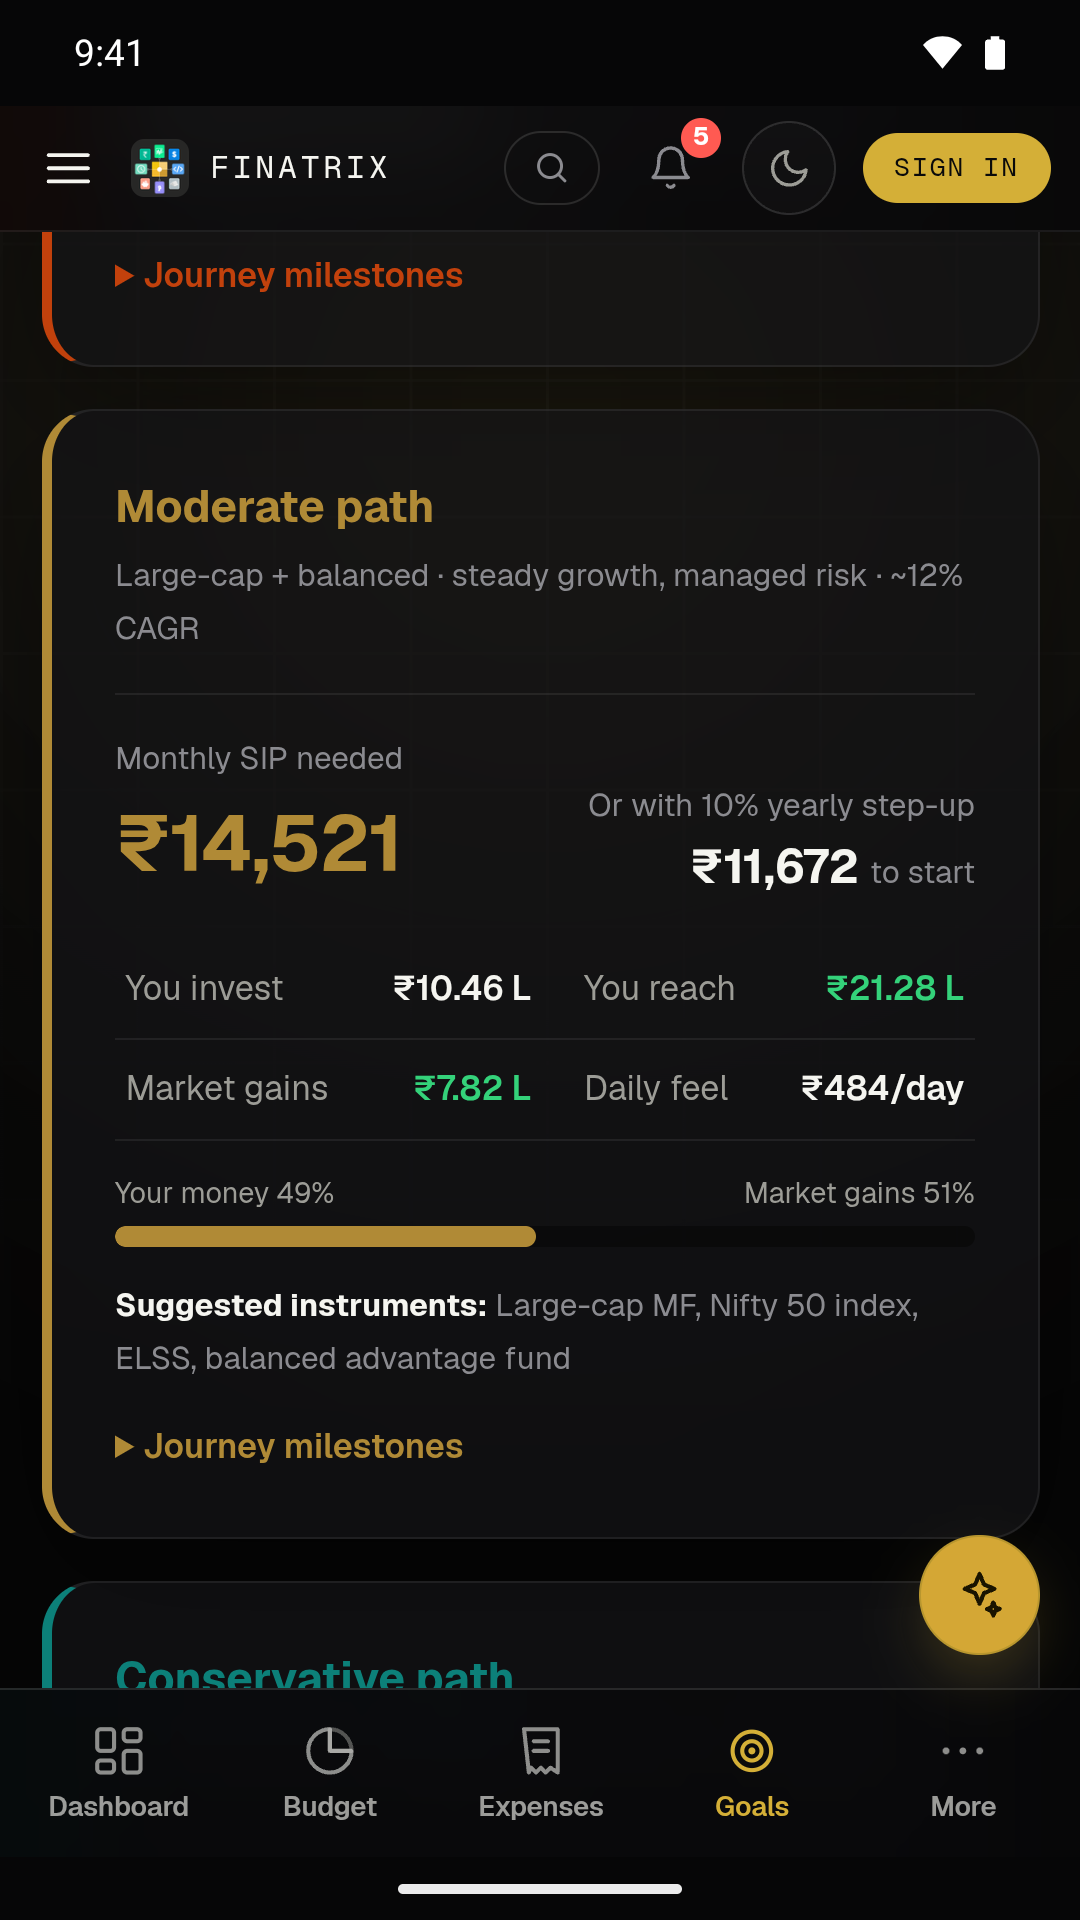
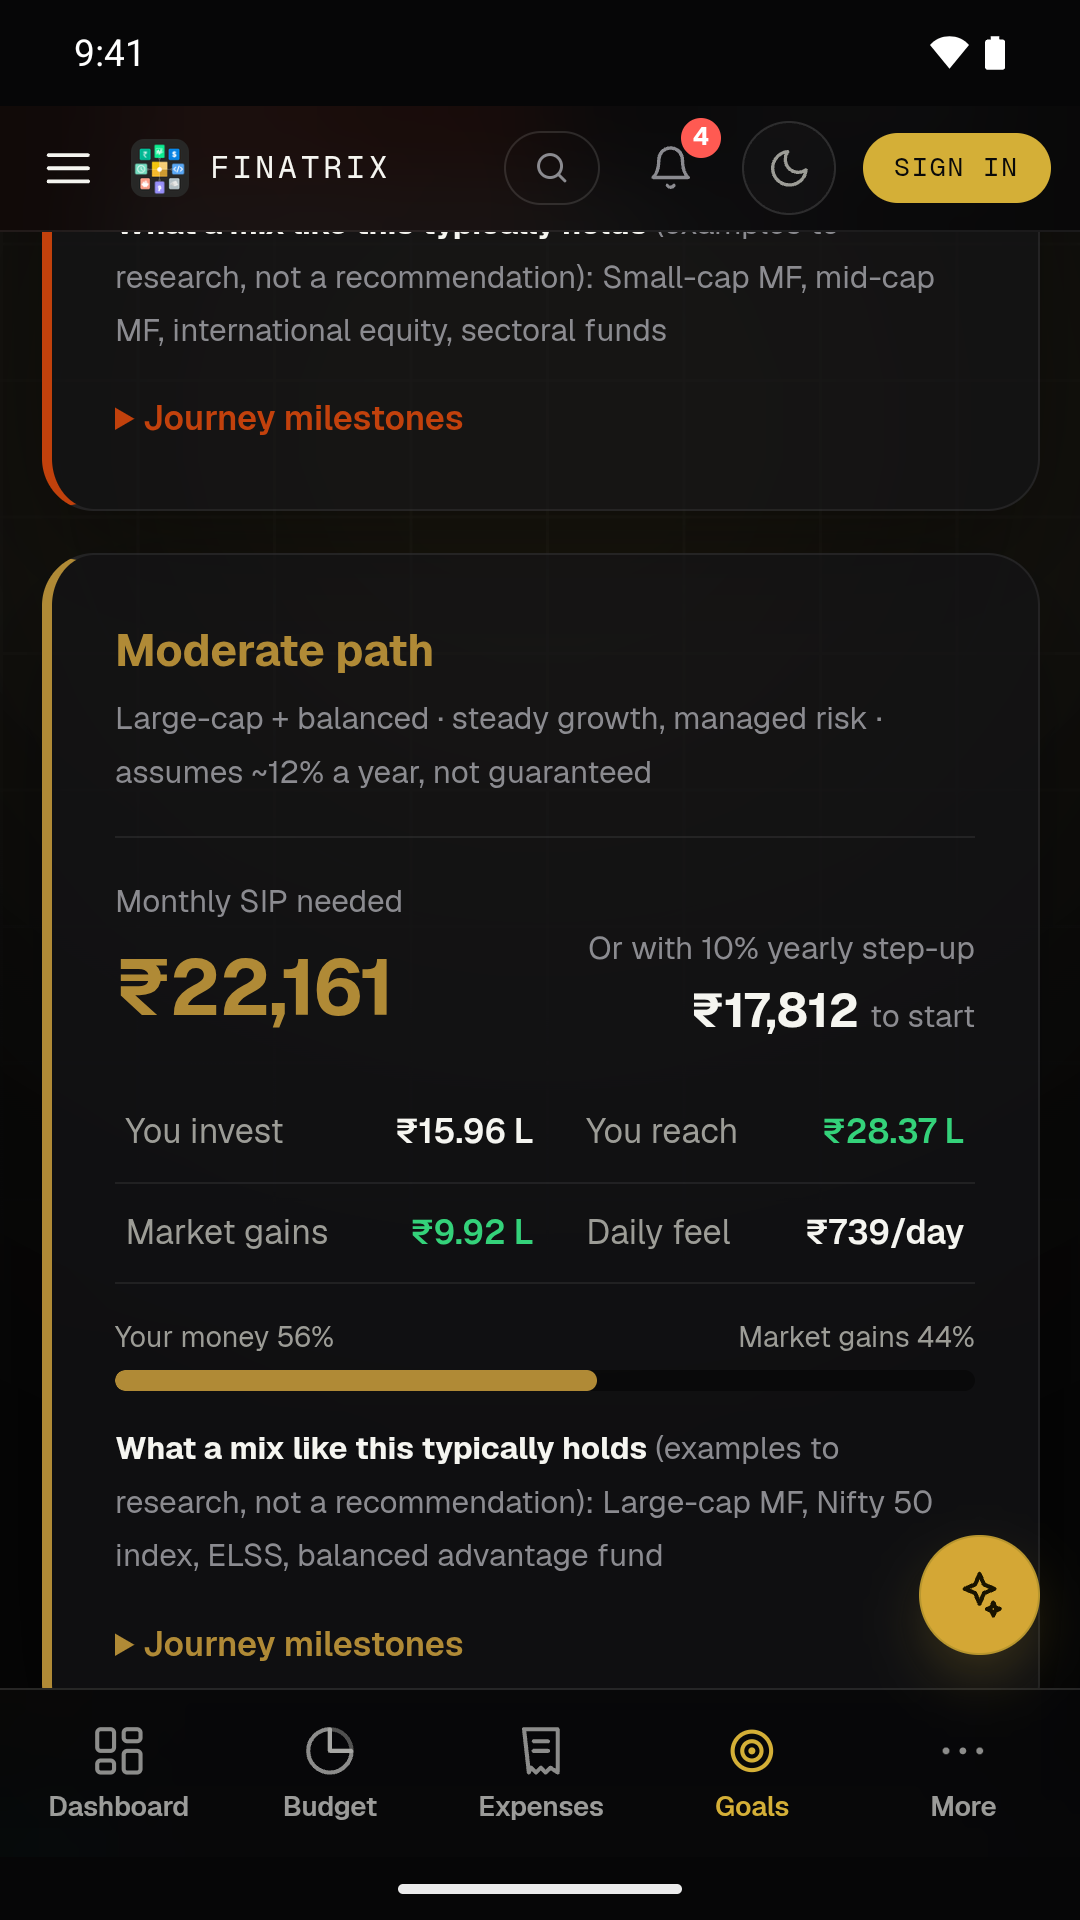
Recapture the Play Goal-plan screenshot with the current wording
The listing's fourth screenshot still showed "Suggested instruments" and
"~12% CAGR", the copy the release audit flagged. Recaptured from the
release-candidate code on the API 36 emulator at Play's 1080x1920, with
fictional data (ios/store/seed-demo-data.py values) and a demo status bar.

diff --git a/docs/MOBILE_RELEASE_READINESS.md b/docs/MOBILE_RELEASE_READINESS.md
@@ -67,6 +67,7 @@ enrolment) is active.
 | **XLSX fallback inflater** (`fflate`, lazy, size-capped) | iOS 15.4–16.3 lack `DecompressionStream('deflate-raw')` | `xlsxImport.test.ts` with `DecompressionStream` removed |
 | **Finance wording** — "assumes ~12% a year, not guaranteed"; instruments shown as "examples to research, not a recommendation" | Avoid reading as a personalised recommendation or a promised return | All 546 parity tests unchanged (no rate or formula touched). Final classification is a **LEGAL REVIEW** item |
 | **Privacy policy** — Android backup paragraph | Behaviour changed | Live on finatrix.co since Worker `b3436291` |
+| **Play screenshot 4 (Goal plan) recaptured** | It showed the old "Suggested instruments / ~12% CAGR" copy | `android/store/screenshots/4-goal-plan.png`, 1080×1920 RGB, fictional data, demo status bar — upload it to the listing |
 | **iOS App Store screenshots** | None existed | 6 × 1320×2868, opaque RGB, fictional data — `ios/store/screenshots/`, repeatable via `ios/store/seed-demo-data.py` + `capture-screenshots.sh` |
 
 ## 4. Store rules in force (checked 2026-10-01)
@@ -133,7 +134,6 @@ enrolment) is active.
 - iOS Universal Links: set `APPLE_APP_ID_PREFIX` in `wrangler.jsonc` and deploy the Worker once the Team ID exists.
 
 ### P2
-- Play listing screenshot 4 (Goal plan) shows the old "Suggested instruments / ~12% CAGR" copy — recapture from build code 4 (1080×1920, demo status bar).
 - Website still on `9201151`; deploy `1873172` so finatrix.co gets the same compatibility work as the apps (READY FOR OWNER APPROVAL).
 - `careers-ai` deny routing is switched off by the owner's secret — decide after one signed-in AI test.
 - Capacitor logs "Error injecting safe area CSS" once on API 30 (its own timing; nothing visible).
@@ -190,4 +190,5 @@ release. Deletion: in-app and web URL. Payments: none. Target API 36.
 Permissions minimal. Financial features: budgeting and education only. App
 access: guest mode. Content rating: answer the AI question "Yes". Misleading
 claims: none found. Testing eligibility: UNKNOWN. **Would hold today on the
-outdated Goal-plan screenshot and the stale Data Safety form.**
+stale Data Safety form and the listing's old Goal-plan screenshot until the
+new one is uploaded.**
